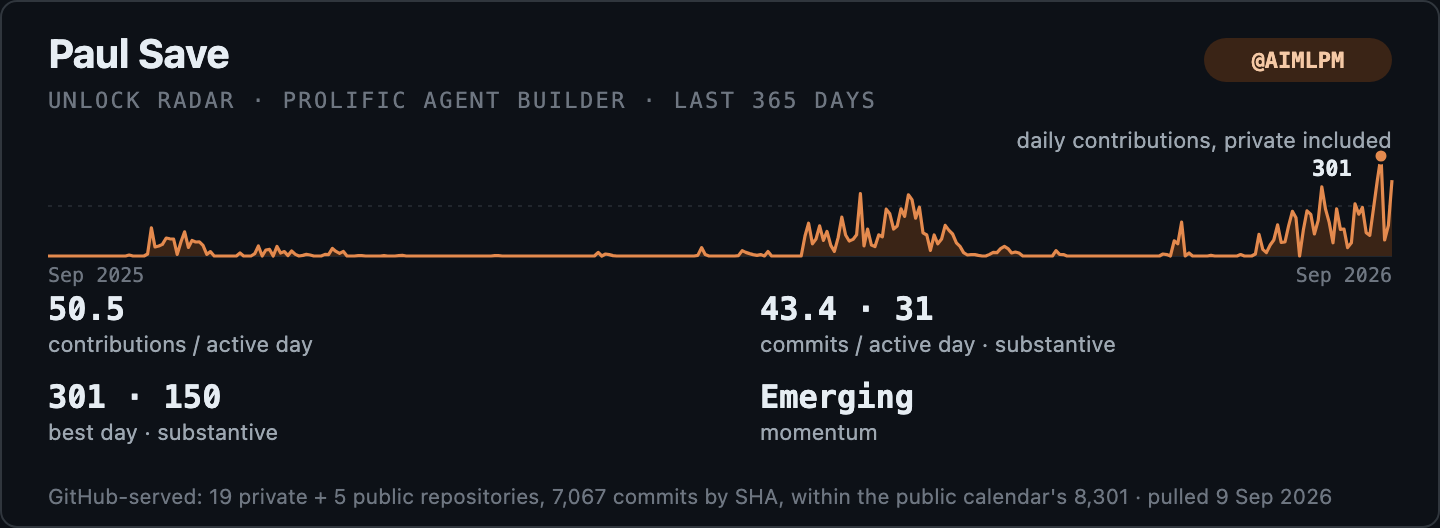
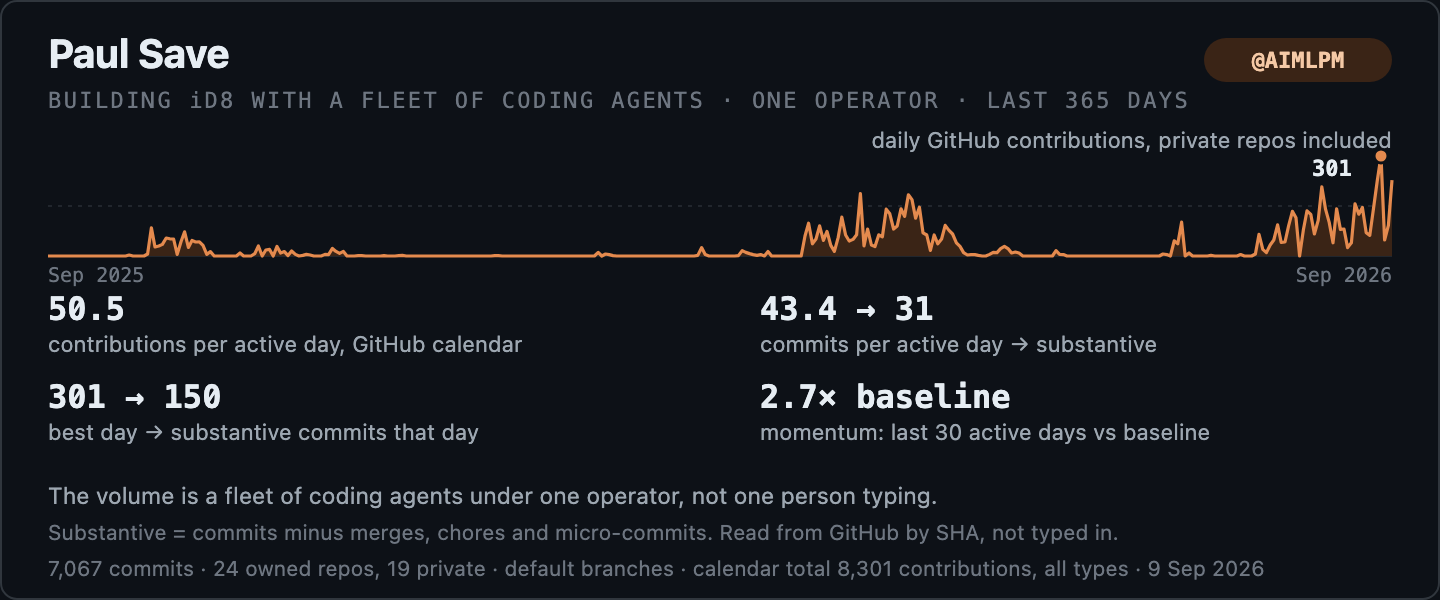
Badge: say what the volume is, label every paired number, explain commits vs contributions
Claude-Session: https://claude.ai/code/session_01YDT1LGeRkLkQdC4oXFXmet

diff --git a/radar/README.md b/radar/README.md
@@ -1,11 +1,17 @@
-# Unlock Radar badge
+# What the badge on this profile means
 
-The badge on this profile is generated from GitHub's own data, not typed in.
+The badge is generated from GitHub's own records, not typed in. It describes one person, Paul Save, directing a fleet of coding agents to build [iD8](https://github.com/AIMLPM), so the volume is deliberately not what one person typing looks like.
 
-- **Daily contributions, private included.** GitHub's contribution calendar for the trailing 365 days, with the "include private contributions" setting on. Anyone can see the same totals on the public profile.
-- **Contributions per active day.** Calendar total divided by days with any activity.
-- **Commits per active day, and the substantive part.** Commits read from GitHub's copy of every repository this account owns, private ones included, deduplicated by SHA, default branches only. "Substantive" excludes merge commits, automation-pattern commits (release chores, version bumps, evidence rows) and micro-commits. The count is bounded by the public calendar total, which is stated on the badge.
-- **Best day, and its substantive count.** The raw calendar maximum and the same day counted in substantive commits.
-- **Momentum.** Eight non-overlapping windows of 30 active days. "Sustained" means the last two windows are both about double the baseline; "Emerging" means only the last one is.
+**Contributions per active day, GitHub calendar.** GitHub's contribution calendar for the trailing 365 days, private repositories included via the "include private contributions" setting, divided by the number of days with any activity. The same totals are visible on the public profile.
 
-Provenance is stated on the badge itself. Regenerated monthly.
+**Commits per active day → substantive.** The first number is every commit GitHub attributes to this account on the default branches of the 24 repositories it owns, 19 of them private, read from GitHub's copy and deduplicated by SHA. The second removes merge commits, automation-pattern commits (release chores, version bumps, evidence rows written by the pipeline itself) and micro-commits, and is the fairer figure.
+
+**Best day → substantive commits that day.** The raw calendar maximum, and the same day counted in substantive commits.
+
+**Momentum.** The mean of the last 30 active days against a baseline built from earlier 30-active-day windows. Above 2× for two consecutive windows would read "sustained"; today it is one window.
+
+**Why 7,067 commits and 8,301 contributions are different numbers.** The calendar counts four things: commits, pull requests, issues, and reviews, across every repository the account has contributed to. The commit figure counts commits only, on default branches of owned repositories. The commit figure will always be the smaller one, and it is bounded by the calendar total anyone can check.
+
+**Why it is credible.** Nothing here was entered by hand. Anyone granted read access to the repositories can reproduce the commit count, and the calendar total is public. The substantive figure exists precisely because raw commit counts flatter agent-driven work.
+
+Regenerated monthly by the same pipeline that produced the Unlock Radar, a screen over 38 well-known builders' public GitHub activity.
